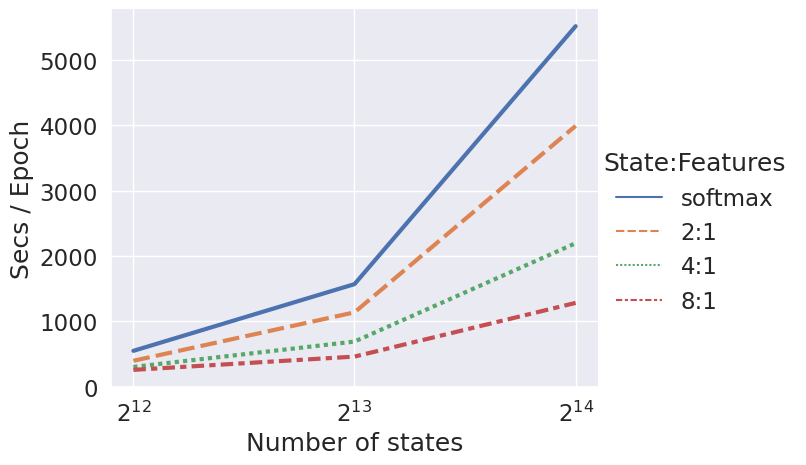
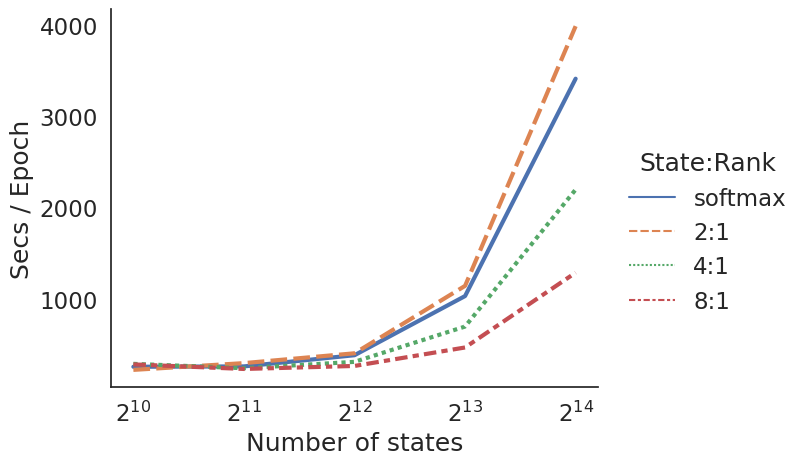
.

diff --git a/large_lhmm_states_feats.py b/large_lhmm_states_feats.py
@@ -7,8 +7,8 @@ import math
 #sns.set_theme(style="darkgrid")
 #sns.set_context("paper", font_scale=2)
 #sns.set_context(font_scale=10)
-sns.set_theme(style="darkgrid")
-sns.set(font_scale=1.5)
+#sns.set(font_scale=1.5)
+sns.set_theme(style="white", font_scale=1.5)
 
 data = np.array([
     #16k  8k   4k   2k   1k   
@@ -27,8 +27,8 @@ df = pd.DataFrame(
 )
 
 g = sns.relplot(data=df, kind="line", linewidth=3, aspect=1.3)
-g.set_axis_labels("Number of states", "PPL")
-g.legend.set_title("State:Features")
+g.set_axis_labels("Number of states", "Valid PPL")
+g.legend.set_title("State:Rank")
 ax = g.axes[0][0]
 ax.set_xscale("log", base=2)
 g.set(ylim=(135,195))
@@ -37,22 +37,22 @@ g.savefig("lhmm-states-features.png")
 
 
 data = np.array([
-    #16k  8k   4k 
-    (146, 149, 155), # softmax
-    (144, 139, 146), # 2:1
-    (144, 142, 154), # 4:1
-    (147, 146, 156), # 8:1
+    #16k  8k   4k   2k 1k 
+    (146, 149, 155, 163, 175,), # softmax
+    (144, 139, 146, 159, 168,), # 2:1
+    (144, 142, 154, 169, 178,), # 4:1
+    (147, 146, 156, 180, 189,), # 8:1
 ])
 
 df = pd.DataFrame(
     data.T,
     columns=["softmax", "2:1", "4:1", "8:1"],
-    index=[16384, 8192, 4096],
+    index=[16384, 8192, 4096, 2048, 1024],
 )
 
 g = sns.relplot(data=df, kind="line", linewidth=3, aspect=1.3)
-g.set_axis_labels("Number of states", "PPL")
-g.legend.set_title("State:Features")
+g.set_axis_labels("Number of states", "Valid PPL")
+g.legend.set_title("State:Rank")
 ax = g.axes[0][0]
 ax.set_xscale("log", base=2)
 g.set(ylim=(135,195))
@@ -60,23 +60,48 @@ g.tight_layout()
 g.savefig("lhmm-states-features-dropout.png")
 
 data = np.array([
-    #16k   8k    4k 
-    (5518, 1571, 550), # softmax
-    (3992, 1139, 398), # 2:1
-    (2197,  692, 304), # 4:1
-    (1284,  462, 259), # 8:1
+    #16k   8k    4k   2k 1k
+    (3415, 1027, 377, 254, 250,), # softmax # rerun bsz
+    (3992, 1139, 398, 290, 216,), # 2:1
+    (2197,  692, 304, 234, 282,), # 4:1 # rerun 1k
+    (1284,  462, 259, 226, 276,), # 8:1 # rerun 1k
 ])
 
 df = pd.DataFrame(
     data.T,
     columns=["softmax", "2:1", "4:1", "8:1"],
-    index=[16384, 8192, 4096],
+    index=[16384, 8192, 4096, 2048, 1024],
 )
 
 g = sns.relplot(data=df, kind="line", linewidth=3, aspect=1.3)
 g.set_axis_labels("Number of states", "Secs / Epoch")
-g.legend.set_title("State:Features")
+g.legend.set_title("State:Rank")
 ax = g.axes[0][0]
 ax.set_xscale("log", base=2)
 g.tight_layout()
 g.savefig("lhmm-states-features-speed.png")
+
+
+data = np.array([
+    #2k    1k    512   256   128
+    (5.78, 5.91, 6.19, 6.54, 7.10,), # softmax
+    (5.77, 5.78, 6.27, 6.71, 7.22,), # 2:1
+    (5.83, 5.93, 6.38, 6.77, 7.26,), # 4:1
+    (5.93, 6.00, 6.45, 6.88, 7.35,), # 8:1
+])
+
+df = pd.DataFrame(
+    data.T,
+    columns=["softmax", "2:1", "4:1", "8:1"],
+    index=[2048, 1024, 512, 256, 128],
+)
+
+g = sns.relplot(data=df, kind="line", linewidth=3, aspect=1.3)
+g.set_axis_labels("Number of states", "Valid NLL")
+g.legend.set_title("State:Rank")
+ax = g.axes[0][0]
+ax.set_xscale("log", base=2)
+#g.set(ylim=(135,195))
+g.fig.get_axes()[0].legend(loc="upper right", title="State:Rank", frameon=False)
+g.tight_layout()
+g.savefig("music-states-features-dropout.png")
